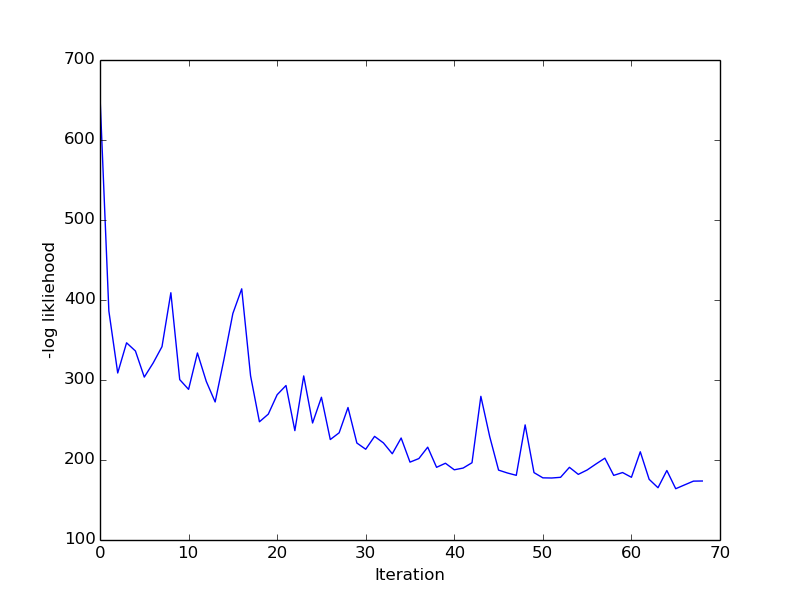
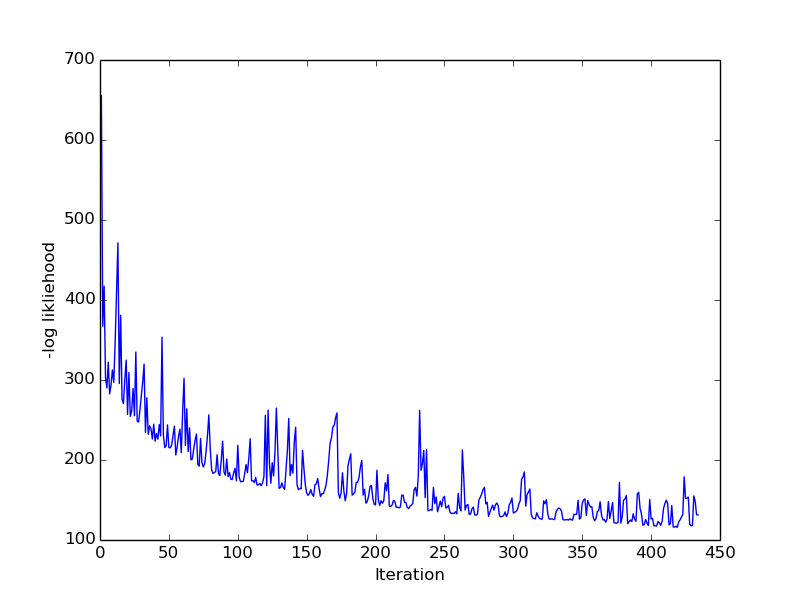
Bug fix

diff --git a/week3/line_search.py b/week3/line_search.py
@@ -12,24 +12,21 @@ def calc_w(X, b):
 def find_step_size(X, y, b_in, f_loss, f_search):
 
     b = b_in.copy()
-    s = 1
-    rho = 0.5
+    rho = 0.8
     c = 0.01
     s_vec = []
 
     for i in xrange(len(b)):
+        s = 1
         w = calc_w(X, b)
-        b += s*f_search(X[:,i], y, b[i])
         l_new = f_loss(X[:,i], y, b[i])
         l_old = l_new.copy()
-        print l_new
-        print l_old
-        print f_search(X[:,i], y, b[i])
-        while l_new > l_old + c*s*f_search(X[:,i], y, b[i]):
+        l_comp = l_new.copy()+ c*s*f_search(X[:,i], y, b[i])
+        while l_new > l_comp: 
             s = rho*s
-            b[i] += s*f_search(X[:,i], y, b[i])
+            b[i] -= s*f_search(X[:,i], y, b[i])
             l_new = f_loss(X[:,i], y, b[i])
-            print l_new
+            l_comp = l_old + c*s*f_search(X[:,i], y, b[i])
         s_vec.append(s)
     return s_vec
 
@@ -106,7 +103,6 @@ dataSet = pd.read_csv('wdbc.csv',header=None, usecols=range(1,12))
 #Select the first column for y, convert to binary array
 y = dataSet[1].map({'M':1, 'B':0})
 y = y.values
-#y = y.reshape(y.shape[0],1)
 
 #Use the rest for X. Scale X by the size of the vector
 X = dataSet.drop(1, 1).values
@@ -121,7 +117,7 @@ l = []
 b = b_orig.copy()
 
 step_size = find_step_size(X, y, b, calc_l, calc_gradient)
-b, l = run_descent(X, y, b, 0.001, step_size, l)
+b, l = run_descent(X, y, b, 0.0001, step_size, l)
 
 plt.figure()
 plt.plot(l)
